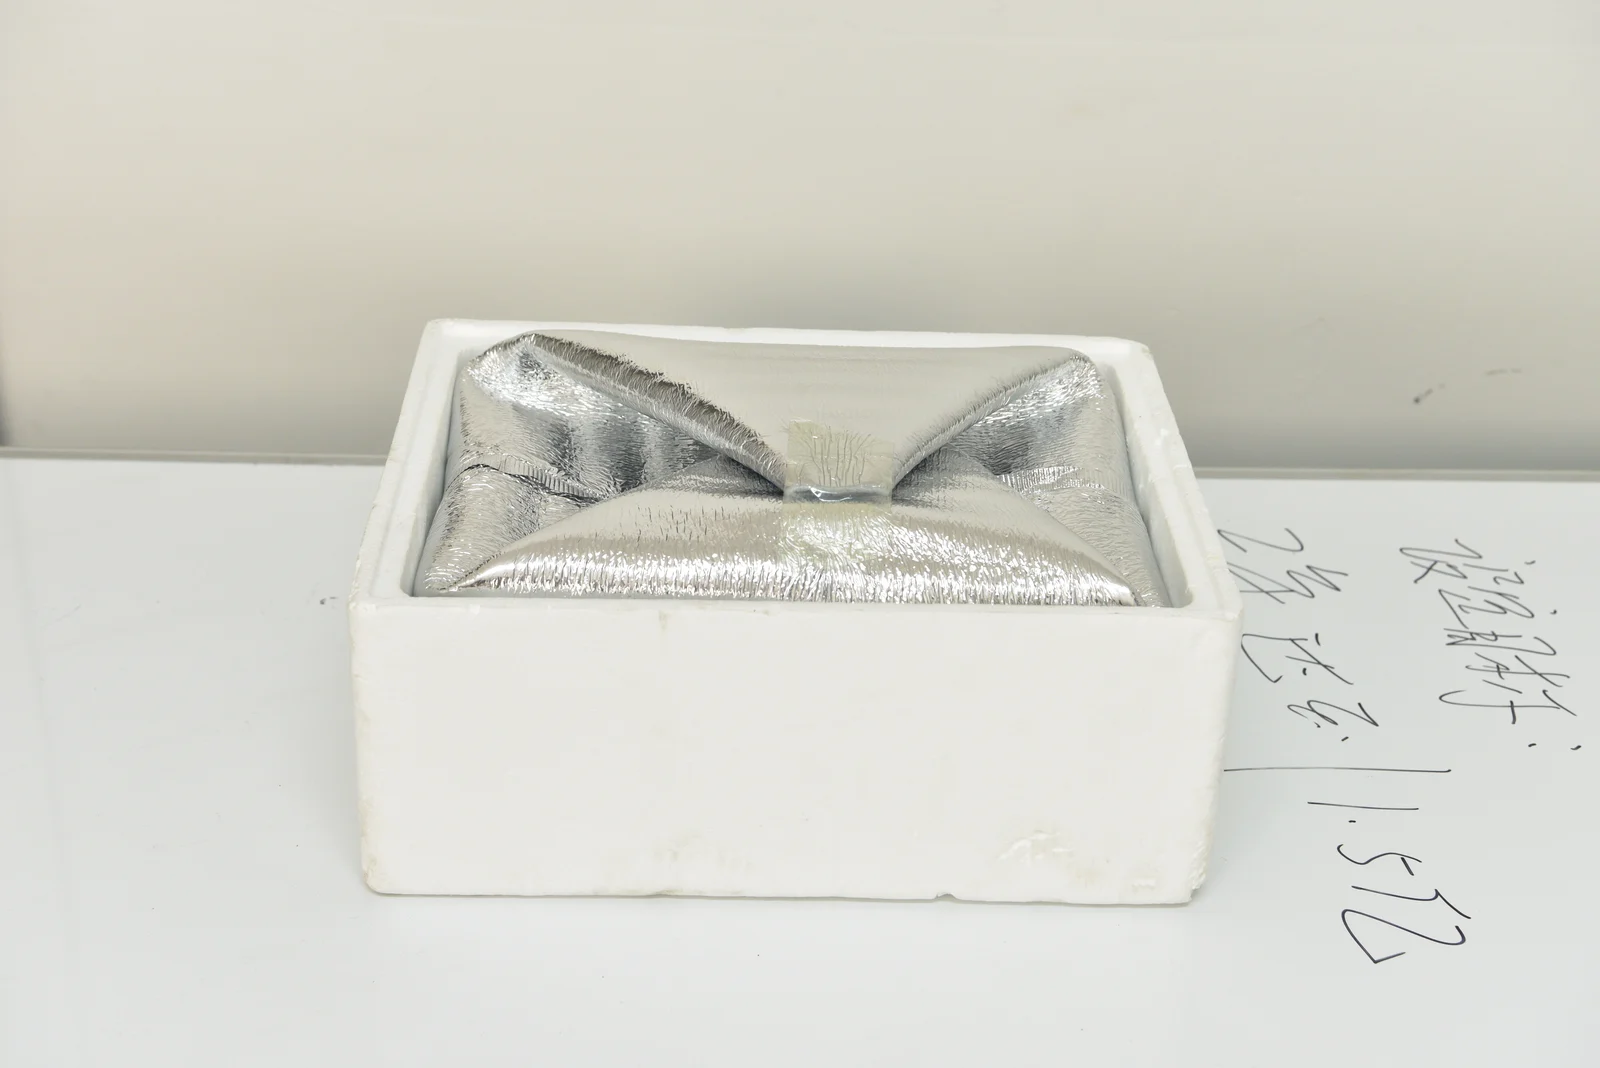
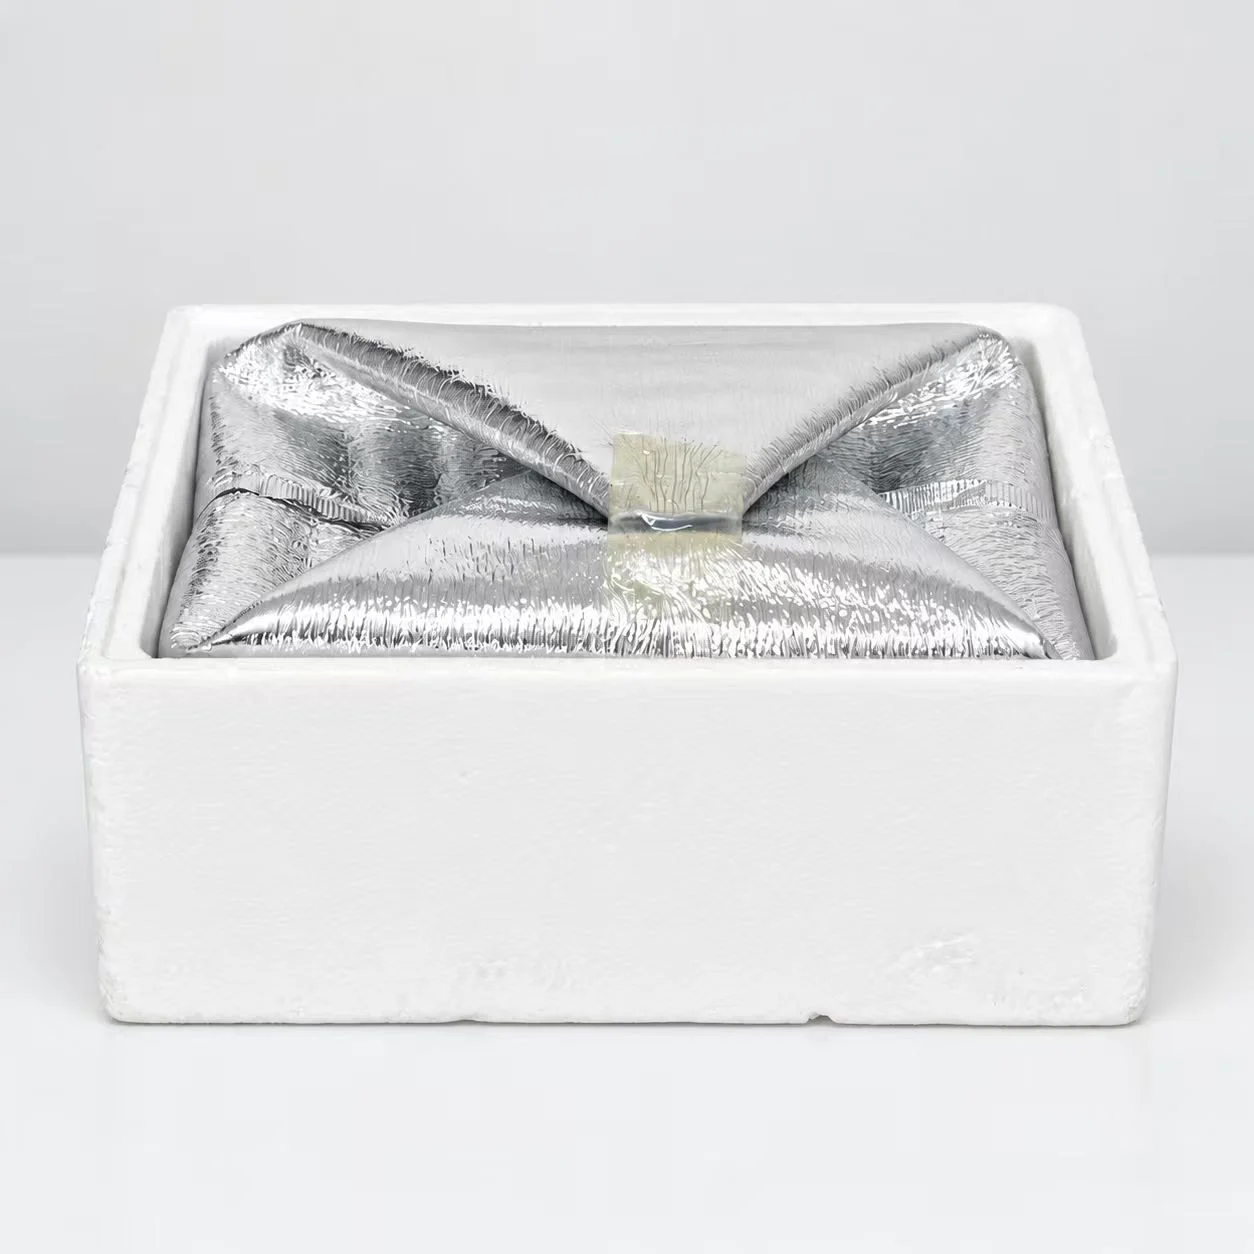
Update foil and delivery product galleries

diff --git a/src/product-media.ts b/src/product-media.ts
@@ -16,8 +16,8 @@ export const productPresentations: Record<string, string> = {
   "double-film-self-absorbing-ice-packs": "packy/double-film-self-absorbing-ice-packs-main.png",
   "self-absorbing-ice-packs": "packy/self-absorbing-ice-packs-main.png",
   "self-adhesive-foil-bags": "packy/self-adhesive-foil-bags-main.webp",
-  "self-seal-non-woven-delivery-bags": "packy/self-seal-non-woven-delivery-bags-new/main.jpg",
-  "self-seal-non-woven-food-service-bags": "packy/self-seal-non-woven-delivery-bags-new/dining-colors.jpg",
+  "self-seal-non-woven-delivery-bags": "packy/self-seal-non-woven-delivery-bags-new/delivery-main.jpg",
+  "self-seal-non-woven-food-service-bags": "packy/self-seal-non-woven-delivery-bags-new/main.jpg",
   "self-seal-non-woven-bakery-bags": "packy/self-seal-non-woven-delivery-bags-new/bakery.jpg",
   "self-seal-non-woven-milk-tea-bags": "packy/self-seal-non-woven-delivery-bags-new/milk-tea.jpg",
   "self-seal-non-woven-cake-bags": "packy/self-seal-non-woven-delivery-bags-new/cake.jpg",

diff --git a/src/foil-photo-products.ts b/src/foil-photo-products.ts
@@ -43,7 +43,7 @@ export const foilPhotoProducts:Bag[]=[
 ]
 export const foilPhotoGalleries:Record<string,string[]>={
  'hand-finished-gusseted-foil-bags':['handmade-foil-bag-shape','gusseted-foil-open-interior','foil-material-measurement-a'].map(file),
- 'open-top-foil-bags':['flat-foil-bag-loading','flat-foil-bag-standing','foil-material-measurement-b'].map(file),
+ 'open-top-foil-bags':['foil-material-measurement-b'].map(file),
 }
 export const foilSectionPhotos:Record<string,Record<'application'|'detail'|'structure',string>>={
  'gusseted-self-seal-foil-bags':{application:file('gusseted-self-seal-foil-main'),detail:file('foil-material-measurement-a'),structure:file('gusseted-self-seal-foil-main')},
